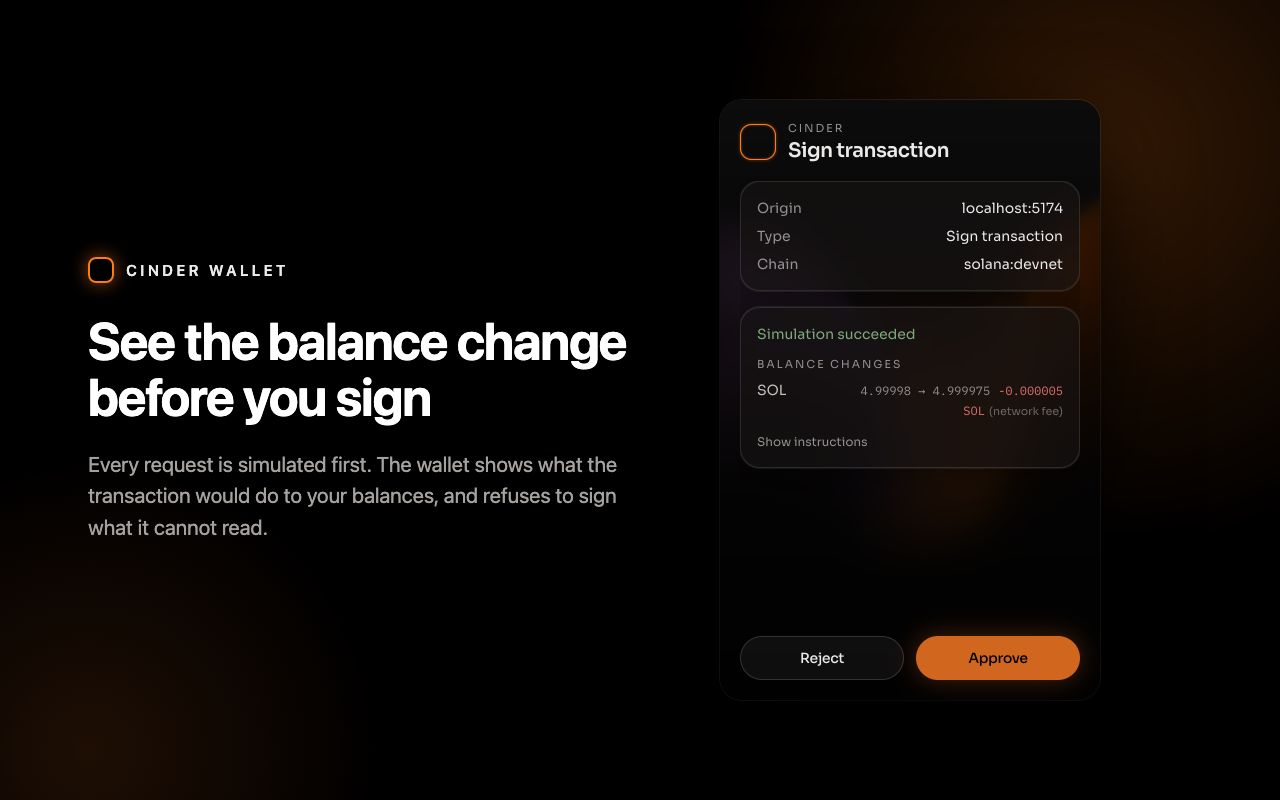
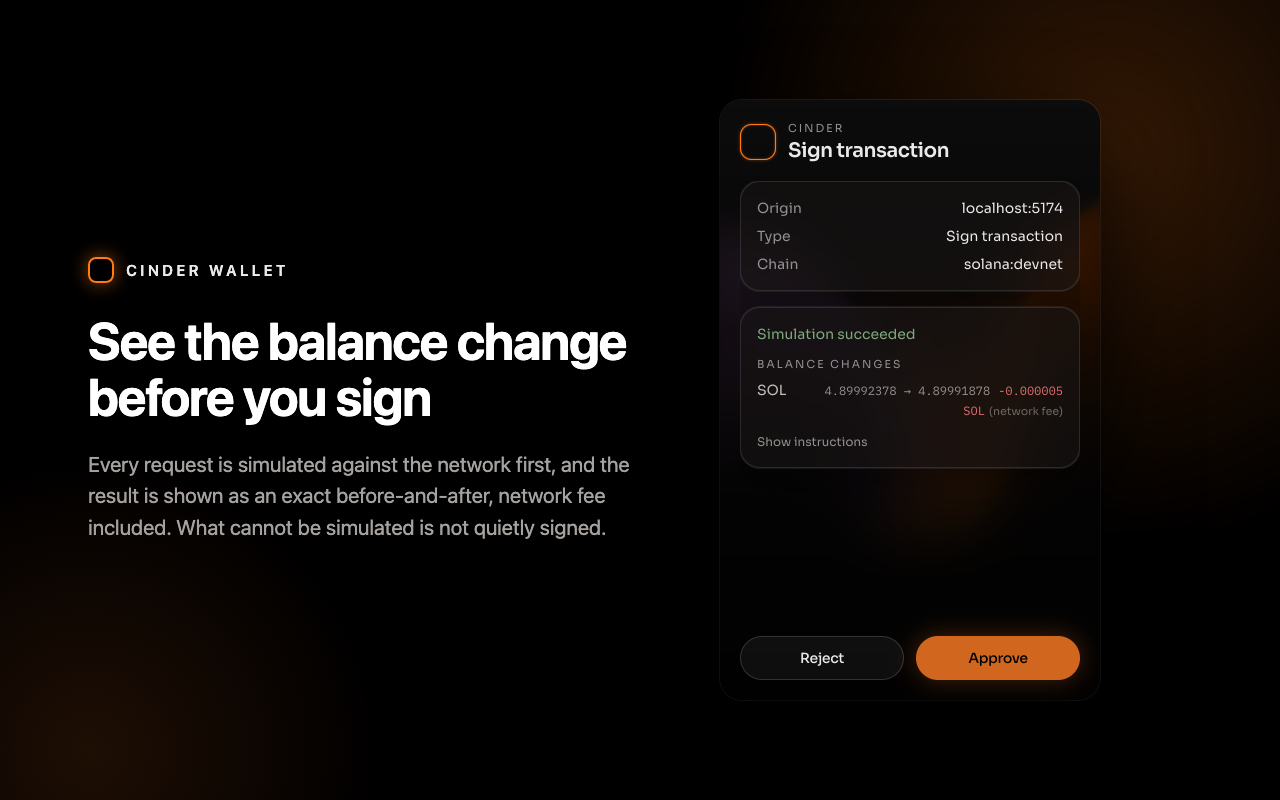
Recapture the store screenshots so every caption is true of its picture
The primary tile claimed "your balance, priced live" over a Devnet capture
showing 0 SOL and "USD prices are hidden". A failed devnet attempt had
overwritten raw/home.png before the mainnet set was stashed, and the composed
image was never opened afterwards.

Rebuilt the set from two runs, each shot taken on the cluster that makes its
own caption true, and every composed image read back before committing.
Provenance and the two rules that prevent a repeat are in
docs/store/screenshots/README.md.

Captures now come from a store-equivalent build (VITE_HELIUS_API_KEY= ), so
the settings screen shows the empty custom-RPC and Helius fields a store
install actually starts with rather than this machine's populated key. Token
names and activity were both confirmed to render with no key, so those screens
are not a keyed-build artefact.

Two captions were overclaiming and now say what their picture shows:
the approval slide describes the exact before-and-after including the fee, and
the token slide drops a Token-2022 claim that no visible row demonstrates.

Also:
- capture-screenshots.mjs gains a `tokens` shot and frames the whole RPC card
- each step is independent, so a screen this machine cannot load is reported
  as SKIPPED instead of killing the run and leaving a half-updated set
- dist-shots/ is ignored; it is a build directory and can carry a baked key

Changed region(s): [[0.0625, 0.5625, 0.5, 0.6875], [0.6562, 0.4688, 0.7188, 0.5]]

diff --git a/docs/store/screenshots/README.md b/docs/store/screenshots/README.md
@@ -1,0 +1,49 @@
+# Store screenshots
+
+Generated, not hand-made. `raw/` is gitignored; the composed `*-1280x800.png`
+and the two promo tiles are committed and are what gets uploaded.
+
+```bash
+# 1. Build the extension for the cluster you want in the shot.
+VITE_HELIUS_API_KEY= VITE_NETWORK=mainnet-beta CINDER_OUT_DIR=dist-shots pnpm build:extension
+# 2. The approval shots need the test dApp up.
+just dapp
+# 3. Capture, then compose.
+CINDER_OUT_DIR=dist-shots node scripts/capture-screenshots.mjs
+node scripts/compose-store-images.mjs
+```
+
+Each capture step is independent: a screen the machine cannot load is reported
+as `SKIPPED` and leaves the previous file alone, so a partial run never half
+overwrites the set.
+
+## Provenance
+
+The set is assembled from two runs, because no single cluster can show every
+claim. Each caption has to be true of the picture beside it.
+
+| Image | Cluster | Why |
+|---|---|---|
+| `01-home` | mainnet | The caption promises live prices, so it needs a real balance and a real quote. |
+| `02-approve` | devnet | Simulation must succeed. The mainnet fixture cannot pay a fee (see below). |
+| `03-connect` | devnet | Same approval run. |
+| `04-send` | mainnet | The caption promises a network-quoted fee. |
+| `05-tokens` | devnet | The mainnet fixture holds no SPL tokens; the devnet one holds both named and unnamed mints. |
+| `extra-activity` | mainnet | Real dated history. |
+| `extra-receive` | mainnet | Cluster-independent. |
+| `extra-settings` | mainnet, keyless build | Must show the fields a store install actually starts with: empty custom RPC, empty Helius key. |
+
+## Two things to keep honest
+
+**Never compose without looking.** Every composed image must be opened and read
+against its own caption before it is committed. A shot captured from the wrong
+cluster looks fine in a file listing and wrong in the store.
+
+**Capture from a store-equivalent build.** Export `VITE_HELIUS_API_KEY=` so the
+build matches what `just store` ships. Otherwise the settings screen shows a
+populated key field that no store user will ever see. Everything in the current
+set was verified to render identically without a key, with one exception: the
+mainnet screens were captured on a machine whose network cannot reach
+`solana-rpc.publicnode.com`, so those three needed a key to read the chain at
+all. The rendered values are chain facts and are endpoint-independent, but
+`extra-settings` is the one that had to come from the keyless build.
